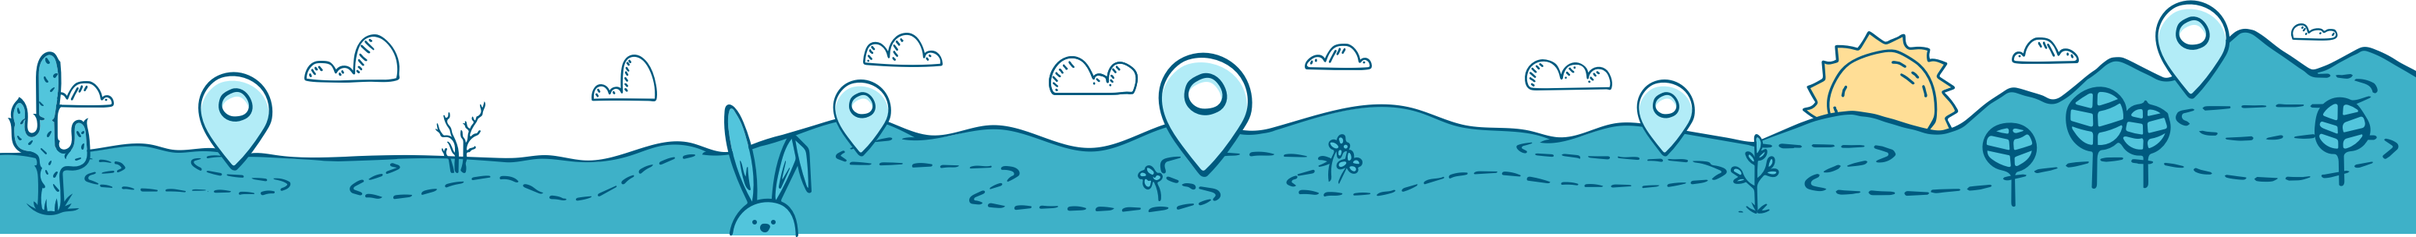
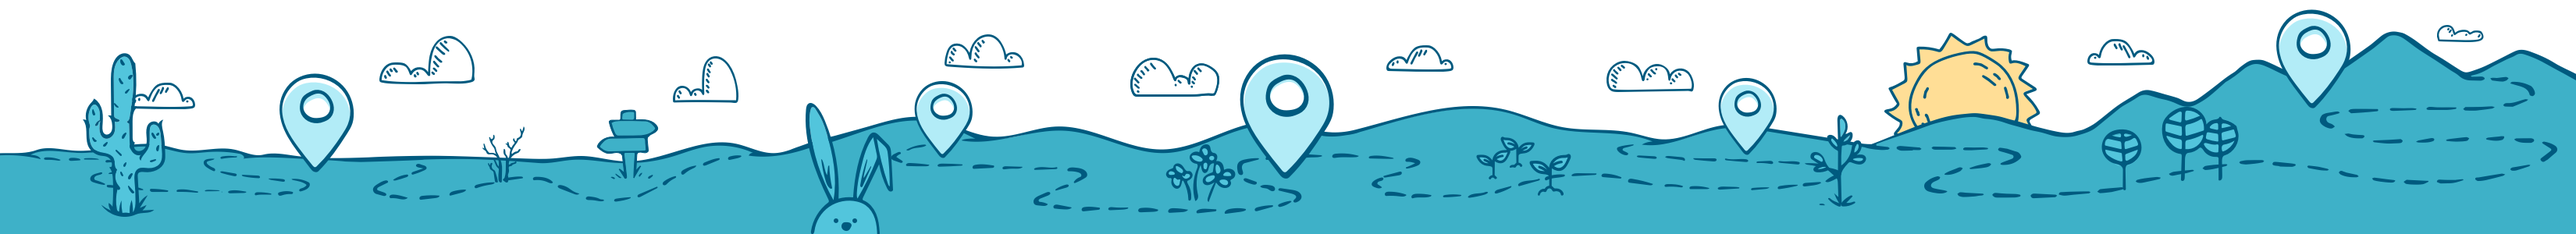
set up stage landscape to work on larger devices

diff --git a/src/containers/PathwayStageScreen/index.js b/src/containers/PathwayStageScreen/index.js
@@ -77,7 +77,7 @@ class PathwayStageScreen extends Component {
           source={LANDSCAPE}
           style={[
             styles.footerImage,
-            { left: (this.state.scrollPosition / -1) },
+            { left: (this.state.scrollPosition / -1) - 50 },
           ]}
         />
         <Flex value={1} align="center" justify="center">

diff --git a/src/containers/PathwayStageScreen/styles.js b/src/containers/PathwayStageScreen/styles.js
@@ -45,6 +45,7 @@ export default StyleSheet.create({
   footerImage: {
     position: 'absolute',
     bottom: -20,
-    height: 175,
+    height: 0.4545*theme.fullWidth,
+    width: theme.fullWidth*4.5,
   },
 });
